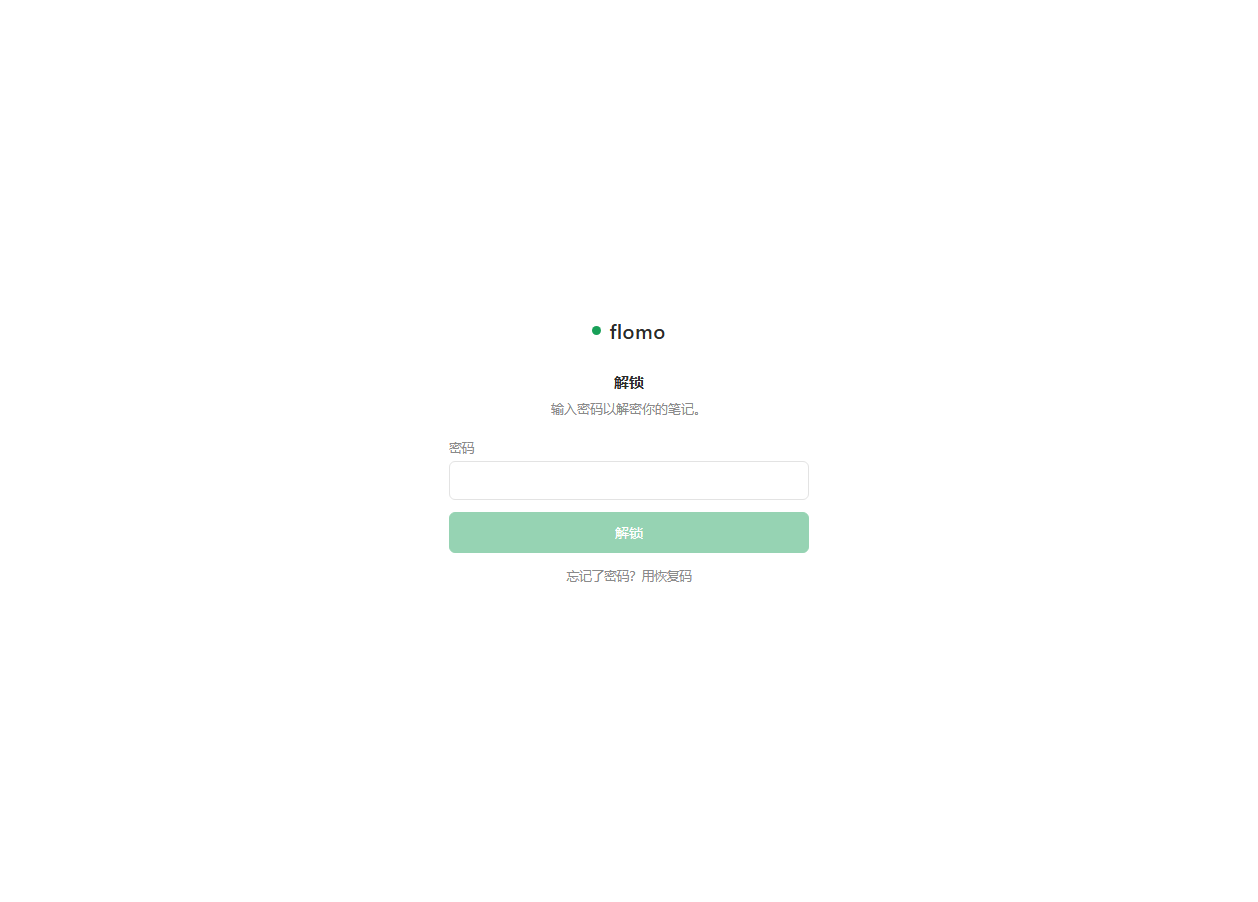
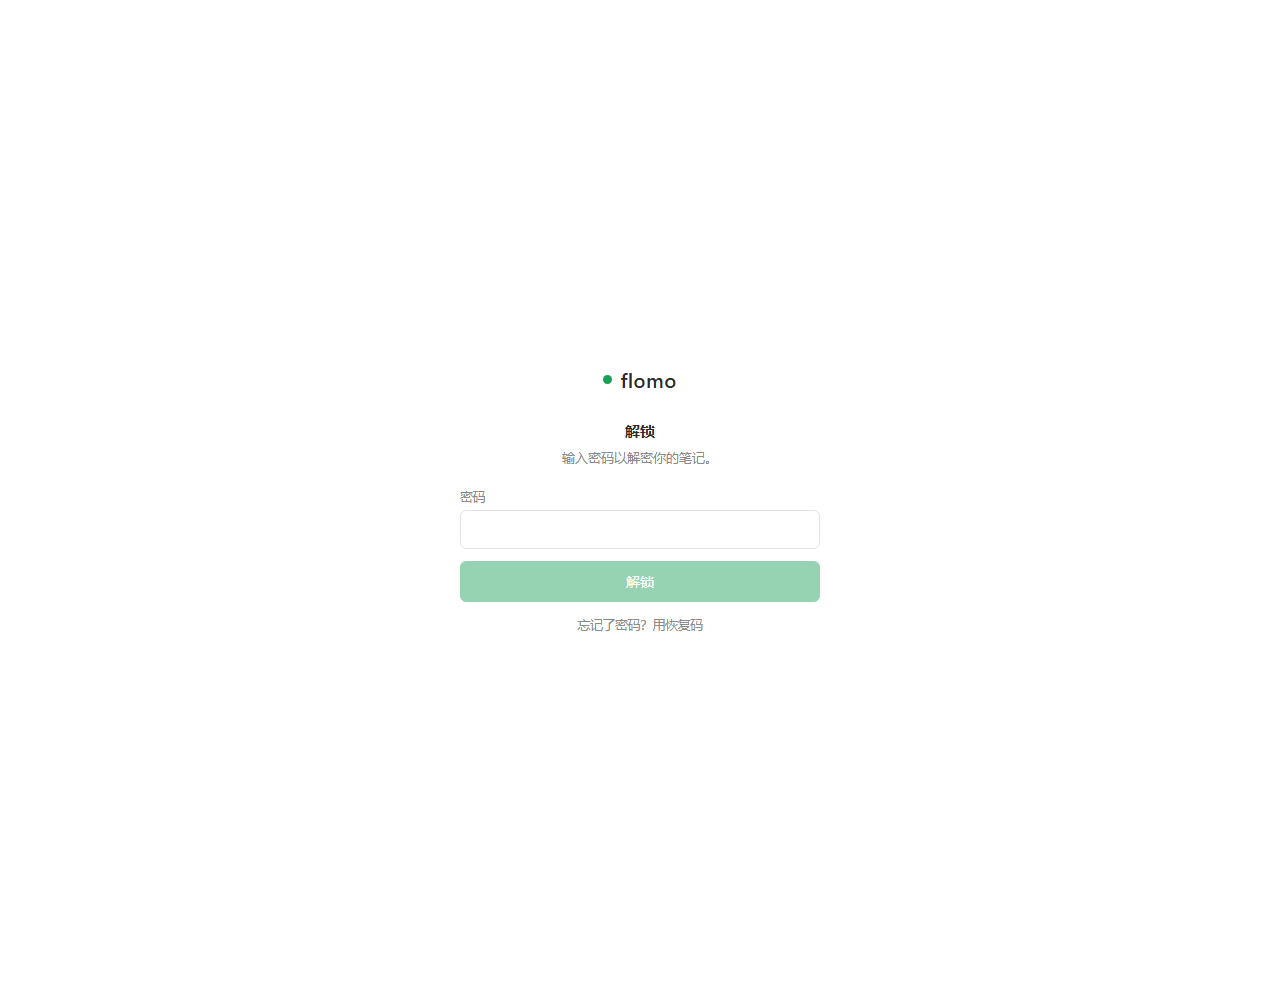
docs: the README's screenshots had fallen behind the code
Regenerated all three and compared hashes rather than assuming. All three differed,
and the feed one was genuinely wrong: it predated the heatmap's month labels and
still showed the old search placeholder. So the README's main image had been
showing a UI that no longer exists — worse than a stale sentence, because a
screenshot is what a reader trusts instead of reading.

Nothing regenerates or checks docs/*.png, so they drift silently. The guide now
carries the three commands, says which change triggers them (styles.ts, MemoItem's
structure, or any layout class), and notes what each of the three is actually
verifying — the feed for styling and block rendering, the gate for centring, the
narrow one for the responsive breakpoint.

It also records why they are not byte-reproducible across days: the fixture dates
are relative to when it ran. That is demo content, not drift; the layout is what to
watch.

160 tests passing.

Changed region(s): [[0.341, 0.5588, 0.651, 0.6519], [0.434, 0.3415, 0.558, 0.4656], [0.341, 0.4967, 0.372, 0.5277]]

diff --git a/docs/DEVELOPING.md b/docs/DEVELOPING.md
@@ -197,3 +197,22 @@ pnpm typecheck && pnpm test && pnpm build && pnpm build:plugin && pnpm smoke
 
 `pnpm smoke` 会**像 GitHub Pages 那样**静态服务 `dist/`，检查每个引用是否解析得到、
 Service Worker 是否被拷进去、以及它承诺预缓存的 URL 是否都可达。CI 里它在发布之前跑。
+
+### 动了样式或组件结构，就要重截 README 的图
+
+```bash
+pnpm --filter @flomo/web dev            # 另开一个终端
+node packages/web/scripts/screenshot.mjs http://127.0.0.1:5273/ docs/screenshot-feed.png
+node packages/web/scripts/screenshot.mjs http://127.0.0.1:5273/ docs/screenshot-locked.png --locked
+node packages/web/scripts/screenshot.mjs http://127.0.0.1:5273/ docs/screenshot-mobile.png --size 420x900
+```
+
+**没有任何东西会提醒你。** `docs/` 里那三张图没有任何自动生成或校验，所以它们会悄悄
+落后于代码 —— 已经发生过一次：热力图加了月份标签之后，README 里的主图两个月都没跟上，
+展示的是一个不存在的界面。一份"用图说话"的文档，图过期比文字过期更糟。
+
+三张图分别在验证什么：信息流（样式与块渲染）、门禁（居中布局）、窄屏（响应式断点）。
+所以**改 `styles.ts`、改 `MemoItem` 的结构、或改任何布局相关的 class，都要重截**。
+
+> 截图里的日期是相对**生成时刻**的（fixture 用 `new Date()` 往前推），所以隔几天重截
+> 内容会不同 —— 那是 demo 数据，不是漂移。真正要盯的是**布局**。
